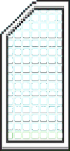
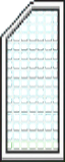
vẽ lại background, thêm biến tính điểm khi ghi bàn

diff --git a/assets/images/platformer/object2.tsx b/assets/images/platformer/object2.tsx
@@ -1,0 +1,4 @@
+<?xml version="1.0" encoding="UTF-8"?>
+<tileset version="1.2" tiledversion="1.2.3" name="object2" tilewidth="32" tileheight="32" tilecount="1" columns="1">
+ <image source="Sprite/object2.png" width="32" height="32"/>
+</tileset>

diff --git a/src/game/ball/Ball.java b/src/game/ball/Ball.java
@@ -1,6 +1,7 @@
 package game.ball;
 
 import game.*;
+import game.maps.GoalLeft;
 import game.physics.BoxCollider;
 import game.platform.Platform;
 
@@ -9,12 +10,13 @@ import game.renderer.Animation;
 import game.renderer.Renderer;
 import tklibs.SpriteUtils;
 
-import javax.swing.*;
 import java.awt.*;
 import java.awt.image.BufferedImage;
 
 
 public class Ball extends GameObject {
+    public int scoreLeft;
+    public int scoreRight;
     Animation rollRight;
     Animation rollLeft;
     public ViewPort viewPort;
@@ -24,6 +26,7 @@ public class Ball extends GameObject {
     private float GROUND_FRICTION = 0.5f;
     private float AIR_FRICTION = 0.02f;
     public Ball() {
+        scoreRight = scoreLeft = 0;
         BufferedImage image = SpriteUtils.loadImage("assets/images/ball/ball0.png");
         renderer = new Renderer(image);
         rollRight = new Animation("assets/images/ball/rollRight");
@@ -57,6 +60,7 @@ public class Ball extends GameObject {
         viewPort.position2.x = 0;
         hitPlayerHorizontal();
         hitPlayerVertical();
+        goalHit();
         bounceVertical();
         bounceHorizontal();
 
@@ -88,6 +92,27 @@ public class Ball extends GameObject {
             }
         }
 
+    }
+
+    private void goalHit() {
+        BoxCollider nextHitBox = nextHitBox(this,velocity.x,0);
+        GoalLeft platform = GameObject.findIntersects(GoalLeft.class,nextHitBox);
+        if (platform!= null) {
+            scoreRight += 1;
+            boolean moveContinue = true;
+            double shiftDistance = Math.signum(velocity.x);
+            while(moveContinue) {
+                if (GameObject.findIntersects(GoalLeft.class,nextHitBox(this,shiftDistance,0)) != null) {
+                    moveContinue = false;
+                } else {
+                    shiftDistance += Math.signum(velocity.x);
+                    this.position.add(Math.signum(velocity.x), 0);
+                }
+            }
+            velocity.x = 0;
+
+        }
+        this.position.add(velocity.x,0);
     }
 
     private void bounceVertical() {
@@ -142,7 +167,7 @@ public class Ball extends GameObject {
     private void hitPlayerHorizontal() {
         Player player = GameObject.findIntersects(Player.class,this.hitBox);
         if (player != null) {
-                velocity.x = player.velocity.x;
+                velocity.x = player.velocity.x/2;
                 velocity.y = player.velocity.y*1.3;
         }
 

diff --git a/src/game/GamePanel.java b/src/game/GamePanel.java
@@ -1,7 +1,8 @@
 package game;
 
 import game.ball.Ball;
-import game.maps.Goal;
+import game.maps.GoalLeft;
+import game.maps.GoalRight;
 import game.maps.Map;
 import game.player.Player;
 
@@ -13,8 +14,8 @@ public class GamePanel extends JPanel {
     Background background;
     Map map;
     Ball ball;
-    Goal goalRight;
-    Goal goalLeft;
+    GoalRight goalRight;
+    GoalLeft goalLeft;
 
     public GamePanel() {
         background = new Background();
@@ -22,8 +23,8 @@ public class GamePanel extends JPanel {
         map.generate();
         player = new Player();
         ball = new Ball();
-        goalRight = new Goal(3120,484,"assets/images/goal.png");
-        goalLeft = new Goal(53,484,"assets/images/goal - Copy.png");
+        goalRight = new GoalRight(3119,481,"assets/images/goal.png");
+        goalLeft = new GoalLeft(48,481,"assets/images/goal - Copy.png");
 
     }
 
@@ -45,6 +46,8 @@ public class GamePanel extends JPanel {
         repaint(); // goi lai ham paint()
     }
 
+    static  Font font = new Font("Verdana",Font.BOLD,32);
+
     @Override
     public void paint(Graphics g) {
         super.paint(g);
@@ -54,6 +57,9 @@ public class GamePanel extends JPanel {
                 object.render(g,player.viewPort);
             }
         }
+        g.setFont(font);
+        g.setColor(Color.green);
+        g.drawString(ball.scoreRight + "",300,500);
     }
 
     private void runAll() {

diff --git a/src/game/maps/Layer.java b/src/game/maps/Layer.java
@@ -32,7 +32,7 @@ public class Layer {
                         platform.renderer = new Renderer(image);
                     }
                     else if (mapData == 4) {
-                        BufferedImage image = SpriteUtils.loadImage("assets/images/goal/goal.png");
+                        BufferedImage image = SpriteUtils.loadImage("assets/images/platformer/Sprite/object2.png");
                         platform.renderer = new Renderer(image);
                     }
                     else if (mapData == 5) {
@@ -56,12 +56,8 @@ public class Layer {
                         platform.renderer = new Renderer(image);
                     }
                     platform.position.set(titleX * 32, titleY * 32);
-                    if (mapData == 4 | mapData ==6 | mapData == 8) {
-                        platform.hitBox = new BoxCollider(platform,0,0);
-                    }
-                    else {
-                        platform.hitBox = new BoxCollider(platform, 32, 32);
-                    }
+                    platform.hitBox = new BoxCollider(platform, 32, 32);
+
                 }
             }
         }

diff --git a/src/game/maps/GoalRight.java b/src/game/maps/GoalRight.java
@@ -1,7 +1,6 @@
-package game.platform;
+package game.maps;
 
 import game.GameObject;
-import game.Vector2D;
 import game.ViewPort;
 import game.physics.BoxCollider;
 import game.renderer.Renderer;
@@ -10,11 +9,11 @@ import tklibs.SpriteUtils;
 import java.awt.*;
 import java.awt.image.BufferedImage;
 
-public class Platform extends GameObject {
-    public Platform() {
+public class GoalRight extends GameObject {
+    public GoalRight() {
     }
 
-    public Platform(int x, int y, String url) {
+    public GoalRight(int x, int y, String url) {
         BufferedImage image = SpriteUtils.loadImage(url);
         renderer = new Renderer(image);
         position.set(x,y);
@@ -25,5 +24,4 @@ public class Platform extends GameObject {
     public void render(Graphics g, ViewPort viewPort) {
         super.render(g, viewPort);
     }
-
 }

diff --git a/src/game/maps/GoalLeft.java b/src/game/maps/GoalLeft.java
@@ -1,7 +1,6 @@
-package game.platform;
+package game.maps;
 
 import game.GameObject;
-import game.Vector2D;
 import game.ViewPort;
 import game.physics.BoxCollider;
 import game.renderer.Renderer;
@@ -10,11 +9,11 @@ import tklibs.SpriteUtils;
 import java.awt.*;
 import java.awt.image.BufferedImage;
 
-public class Platform extends GameObject {
-    public Platform() {
+public class GoalLeft extends GameObject {
+    public GoalLeft() {
     }
 
-    public Platform(int x, int y, String url) {
+    public GoalLeft(int x, int y, String url) {
         BufferedImage image = SpriteUtils.loadImage(url);
         renderer = new Renderer(image);
         position.set(x,y);
@@ -25,5 +24,4 @@ public class Platform extends GameObject {
     public void render(Graphics g, ViewPort viewPort) {
         super.render(g, viewPort);
     }
-
 }

diff --git a/src/game/Background.java b/src/game/Background.java
@@ -9,9 +9,9 @@ import java.awt.image.BufferedImage;
 public class Background extends GameObject {
     BufferedImage backgroundImage;
     public Background() {
-        backgroundImage = SpriteUtils.loadImage("assets/images/background/445906.png");
+        backgroundImage = SpriteUtils.loadImage("assets/images/background/Untitled.png");
         renderer = new Renderer(backgroundImage);
-        position.set(1300,300);
+        position.set(1700,300);
     }
 
 }

diff --git a/src/game/physics/BoxCollider.java b/src/game/physics/BoxCollider.java
@@ -23,6 +23,14 @@ public class BoxCollider {
         this.anchor = master.anchor;
     }
 
+    public BoxCollider(double x, double y, int width, int height) {
+        this.position.x = x;
+        this.position.y = y;
+        this.width = width;
+        this.height = height;
+        this.anchor.set(0.5,0.5);
+    }
+
     public double top() {
         return this.position.y - this.anchor.y * this.height;
     }
